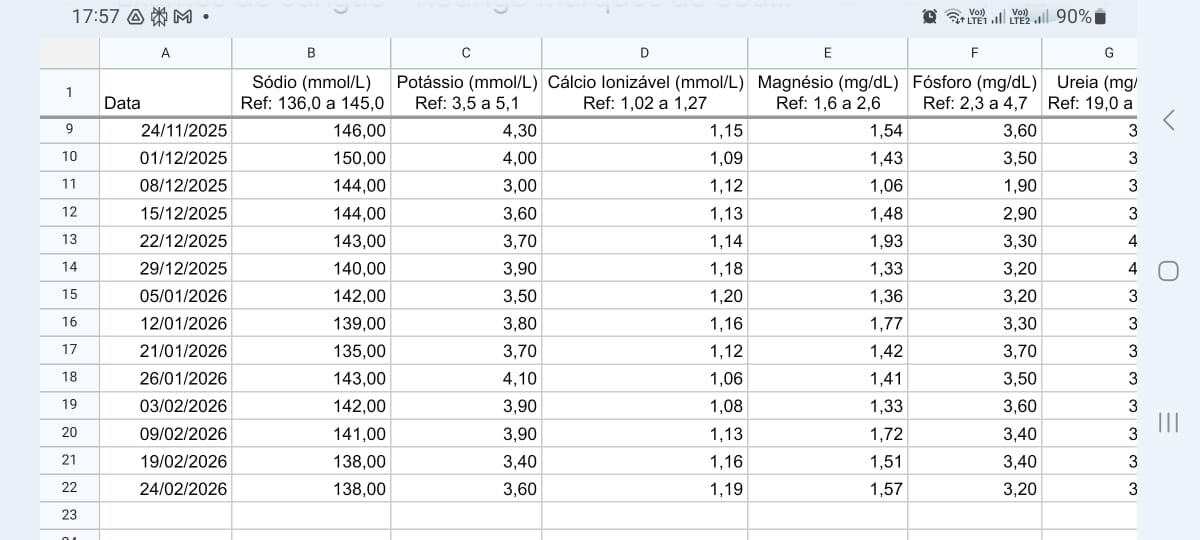
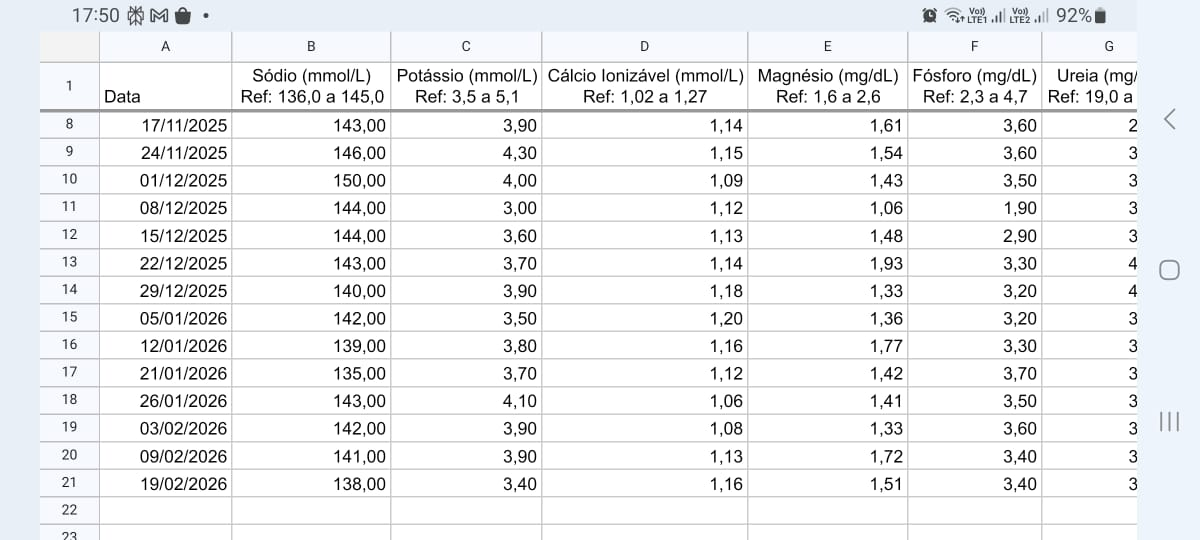
fix: corrige conteúdo das imagens 01 e 06 (arquivos estavam trocados)
- Troca o conteúdo real dos arquivos jpeg 01 e 06
- Corrige títulos e legendas no README para corresponder às imagens corretas

Changed region(s): [[0.0308, 0.0889, 0.9867, 1.0], [0.7708, 0.0, 0.925, 0.0593], [0.0617, 0.0, 0.185, 0.0593]]

diff --git a/README.md b/README.md
@@ -196,11 +196,11 @@ Execute estas funções pelo editor do Google Apps Script:
 
 O fluxo abaixo mostra o TabEx em funcionamento real, do upload dos PDFs até a tabulação automática na planilha.
 
-### 1. Novos exames de 24/02/2026 tabulados na planilha
+### 1. Estado inicial da planilha antes do processamento
 
 ![Exames tabulados até 19/02/2026](assets/screenshots/01-exames-tabulados-ate-19-02-2026.jpeg)
 
-> Os resultados do dia 24/02/2026 aparecem automaticamente como nova linha na planilha.
+> Planilha com exames tabulados até 19/02/2026, antes de receber os novos PDFs.
 
 ---
 
@@ -236,11 +236,11 @@ O fluxo abaixo mostra o TabEx em funcionamento real, do upload dos PDFs até a t
 
 ---
 
-### 6. Estado inicial da planilha antes do processamento
+### 6. Novos exames de 24/02/2026 tabulados na planilha
 
 ![Exames de 24/02/2026 tabulados](assets/screenshots/06-exames-24-02-2026-tabulados.jpeg)
 
-> Planilha com exames tabulados até 19/02/2026, antes de receber os novos PDFs.
+> Os resultados do dia 24/02/2026 aparecem automaticamente como nova linha na planilha.
 
 ---
 
